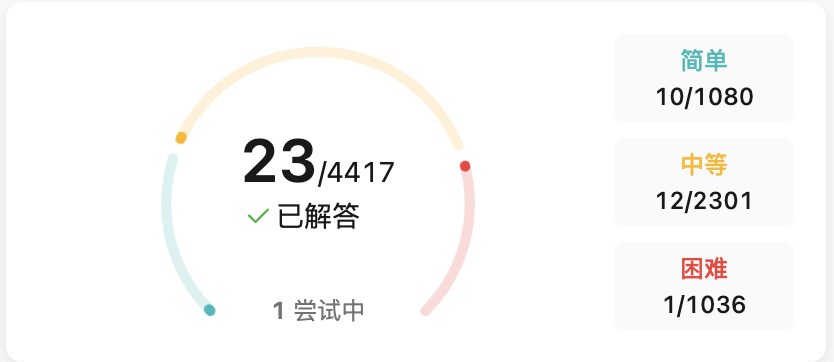
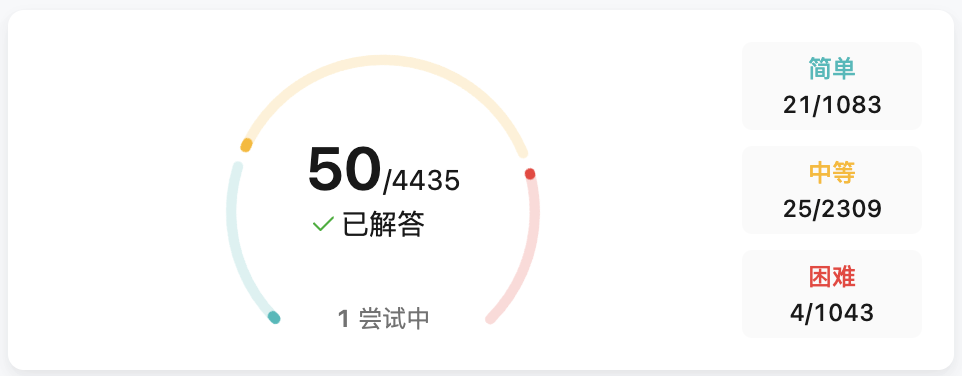
leetcode 198

diff --git a/content/posts/Blind 75.md b/content/posts/Blind 75.md
@@ -1343,3 +1343,30 @@ class Solution {
     }
 }
 ```
+
+## 45.打家劫舍（LeetCode 198）
+
+**题目**：你是一个专业的小偷，计划偷窃沿街的房屋。每间房内都藏有一定的现金，影响你偷窃的唯一制约因素就是相邻的房屋装有相互连通的防盗系统，如果两间相邻的房屋在同一晚上被小偷闯入，系统会自动报警。
+
+### DP
+
+Time: O(n)      
+Space: O(1)
+
+```java
+class Solution {
+    public int rob(int[] nums) {
+        if (nums == null || nums.length == 0) return 0;
+        
+        int prev1 = 0;  // dp[i-1]
+        int prev2 = 0;  // dp[i-2]
+
+        for (int num : nums) {
+            int cur = Math.max(prev1, prev2 + num);
+            prev2 = prev1;
+            prev1 = cur;
+        }
+        return prev1;
+    }
+}
+```
